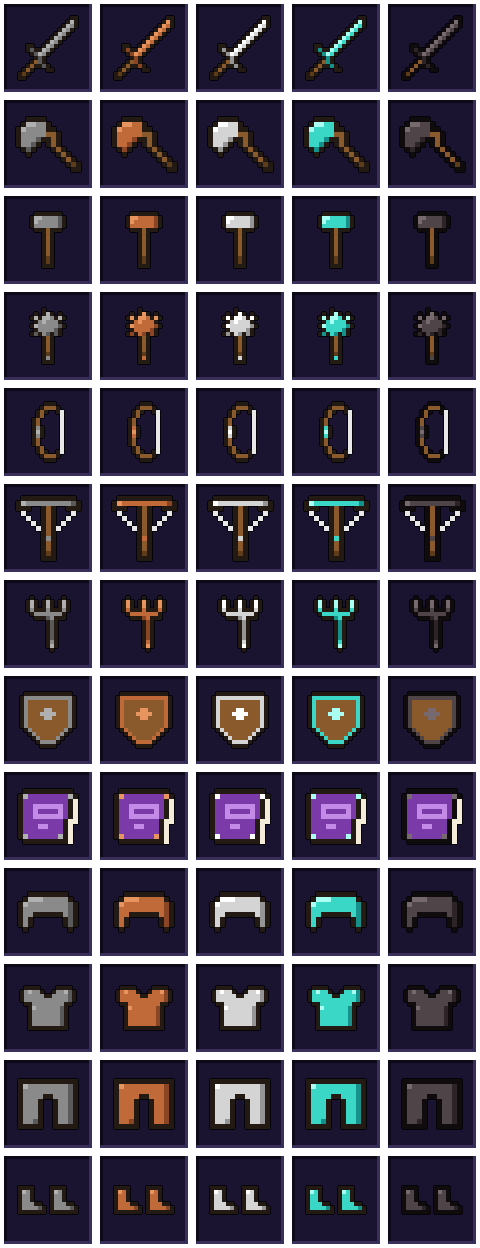
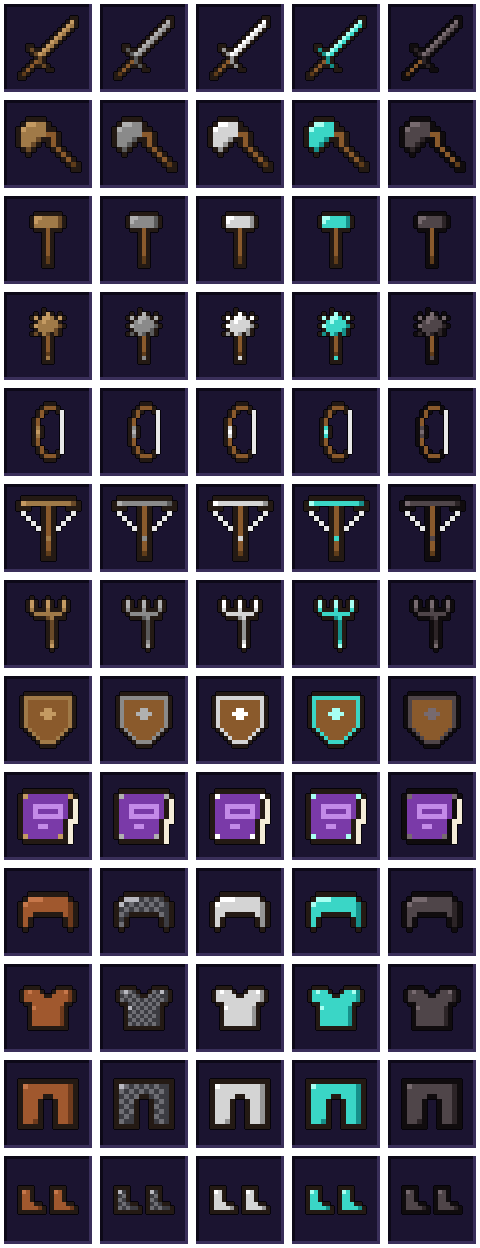
Minecraft armor: chestplate symbol and the standard armor ladder
The Armor symbol is now a Minecraft-style chestplate, on the flat dice and
the 3D dice faces. Armor is named and colored Leather, Chainmail, Iron,
Diamond, Netherite; held items Wooden, Stone, Iron, Diamond, Netherite.
Slots read Helmet, Chestplate, Leggings, Boots. Grades are unchanged.

Claude-Session: https://claude.ai/code/session_01DeGWfZANVsJbib5MdEiry5

diff --git a/dicecraft/js/gear.js b/dicecraft/js/gear.js
@@ -30,8 +30,8 @@ import { SYMBOLS } from './data.js';
 
 export const SLOTS = [
   { id: 'head', name: 'Helmet', where: 'on the head' },
-  { id: 'chest', name: 'Chest', where: 'on the chest' },
-  { id: 'legs', name: 'Legs', where: 'on the legs' },
+  { id: 'chest', name: 'Chestplate', where: 'on the chest' },
+  { id: 'legs', name: 'Leggings', where: 'on the legs' },
   { id: 'feet', name: 'Boots', where: 'on the feet' },
   { id: 'hand', name: 'Weapon', where: 'in hand' },
   { id: 'off', name: 'Off Hand', where: 'in the off hand' },
@@ -122,11 +122,11 @@ export function skillsCanCarry(proficiencies, piece) {
 // better off not buying, so the ladder starts at d8 — where the extra face and
 // the wild face between them beat a plain die whatever the room asks for.
 export const TIERS = [
-  { tier: 1, name: 'Stone', minLevel: 1, sides: 8, wilds: 1, carry: 1, durability: 2, price: 120 },
-  { tier: 2, name: 'Copper', minLevel: 4, sides: 8, wilds: 2, carry: 1, durability: 3, price: 260 },
-  { tier: 3, name: 'Iron', minLevel: 8, sides: 10, wilds: 2, carry: 1, durability: 4, price: 520 },
-  { tier: 4, name: 'Diamond', minLevel: 12, sides: 10, wilds: 3, carry: 1, durability: 5, price: 900 },
-  { tier: 5, name: 'Netherite', minLevel: 16, sides: 12, wilds: 3, carry: 1, durability: 6, price: 1400 },
+  { tier: 1, name: 'Wooden', armor: 'Leather', minLevel: 1, sides: 8, wilds: 1, carry: 1, durability: 2, price: 120 },
+  { tier: 2, name: 'Stone', armor: 'Chainmail', minLevel: 4, sides: 8, wilds: 2, carry: 1, durability: 3, price: 260 },
+  { tier: 3, name: 'Iron', armor: 'Iron', minLevel: 8, sides: 10, wilds: 2, carry: 1, durability: 4, price: 520 },
+  { tier: 4, name: 'Diamond', armor: 'Diamond', minLevel: 12, sides: 10, wilds: 3, carry: 1, durability: 5, price: 900 },
+  { tier: 5, name: 'Netherite', armor: 'Netherite', minLevel: 16, sides: 12, wilds: 3, carry: 1, durability: 6, price: 1400 },
 ];
 
 // --- What a piece looks like ------------------------------------------------
@@ -220,7 +220,11 @@ export function slotOf(piece) {
 export function nameOf(piece) {
   const kind = kindOf(piece);
   if (!kind) return 'Nothing';
-  return `${tierDef(piece.tier).name} ${kind.name}`;
+  // Armor is named the way Minecraft names armor — Leather, Chainmail, Iron,
+  // Diamond, Netherite — and everything held in the hand the way it names
+  // tools. The grade underneath is the same either way.
+  const grade = tierDef(piece.tier);
+  return `${ARMOUR_KINDS.includes(kind.id) ? grade.armor : grade.name} ${kind.name}`;
 }
 
 // How many dice a piece can change, which is how many sockets it carries. A

diff --git a/dicecraft/js/data.js b/dicecraft/js/data.js
@@ -2,7 +2,7 @@ import { SYMBOL_IDS, WILD } from './dice.js';
 
 export const SYMBOLS = {
   might:   { id: 'might', name: 'Combat', color: '#d8492f', art: 'M18 0h6v2h-6zM16 2h8v2h-8zM14 4h8v2h-8zM12 6h8v2h-8zM10 8h8v2h-8zM2 10h2v2h-2zM8 10h8v2h-8zM2 12h4v2h-4zM8 12h6v2h-6zM4 14h8v2h-8zM6 16h4v2h-4zM4 18h8v2h-8zM2 20h4v2h-4zM10 20h4v2h-4zM0 22h4v2h-4z' },
-  guard:   { id: 'guard', name: 'Armor', color: '#5b8fc4', art: 'M2 0h6v2h-6zM16 0h6v2h-6zM0 2h24v2h-24zM0 4h24v2h-24zM2 6h20v2h-20zM4 8h16v2h-16zM4 10h16v2h-16zM4 12h6v2h-6zM14 12h6v2h-6zM4 14h16v2h-16zM4 16h16v2h-16zM4 18h16v2h-16zM4 20h16v2h-16zM6 22h12v2h-12z' },
+  guard:   { id: 'guard', name: 'Armor', color: '#5b8fc4', art: 'M2 0h6v2h-6zM16 0h6v2h-6zM0 2h8v2h-8zM16 2h8v2h-8zM0 4h10v2h-10zM14 4h10v2h-10zM2 6h20v2h-20zM2 8h20v2h-20zM2 10h20v2h-20zM6 12h12v2h-12zM6 14h12v2h-12zM6 16h12v2h-12zM6 18h12v2h-12zM6 20h12v2h-12zM6 22h12v2h-12z' },
   arcana:  { id: 'arcana', name: 'Enchant', color: '#a066e6', art: 'M10 0h4v2h-4zM10 2h4v2h-4zM8 4h8v2h-8zM8 6h8v2h-8zM4 8h16v2h-16zM0 10h24v2h-24zM0 12h24v2h-24zM4 14h16v2h-16zM8 16h8v2h-8zM8 18h8v2h-8zM10 20h4v2h-4zM10 22h4v2h-4z' },
   nature:  { id: 'nature', name: 'Wilds', color: '#52ab3c', art: 'M8 0h8v2h-8zM4 2h16v2h-16zM2 4h20v2h-20zM2 6h8v2h-8zM14 6h8v2h-8zM4 8h6v2h-6zM14 8h6v2h-6zM10 10h4v2h-4zM2 12h4v2h-4zM10 12h4v2h-4zM18 12h4v2h-4zM2 14h6v2h-6zM10 14h4v2h-4zM16 14h6v2h-6zM4 16h16v2h-16zM10 18h4v2h-4zM10 20h4v2h-4zM6 22h12v2h-12z' },
   cunning: { id: 'cunning', name: 'Ender', color: '#1fa591', art: 'M8 0h8v2h-8zM4 2h16v2h-16zM2 4h20v2h-20zM2 6h8v2h-8zM14 6h8v2h-8zM0 8h8v2h-8zM16 8h8v2h-8zM0 10h6v2h-6zM18 10h6v2h-6zM0 12h6v2h-6zM18 12h6v2h-6zM0 14h8v2h-8zM16 14h8v2h-8zM2 16h8v2h-8zM14 16h8v2h-8zM2 18h20v2h-20zM4 20h16v2h-16zM8 22h8v2h-8z' },

diff --git a/dicecraft/README.md b/dicecraft/README.md
@@ -43,7 +43,7 @@ stand-in. Renaming the character changes the skin. All of this is in
 | The Iron Tower | The Clocktower |
 | Seals of the Stag, Griffon, Wyvern, Phoenix | Copper Cogs, Gold Doubloons, Pirate Treasure Keys, Seals of Anubis |
 | Wayfarer's Stone, Ten-Foot Pole, Seer's Glass, Smelling Salts | Recovery Compass, Ten-Block Stick, Pirate Spyglass, Totem of Undying |
-| Worn / Iron / Steel / Silvered / Runed kit | Stone / Copper / Iron / Diamond / Netherite kit |
+| Worn / Iron / Steel / Silvered / Runed kit | Armor: Leather / Chainmail / Iron / Diamond / Netherite; weapons: Wooden / Stone / Iron / Diamond / Netherite |
 | Shrine | Beacon |
 
 **Ithaca** is the capital: harbor cellars, the Undercity sewers, pirate hulks
